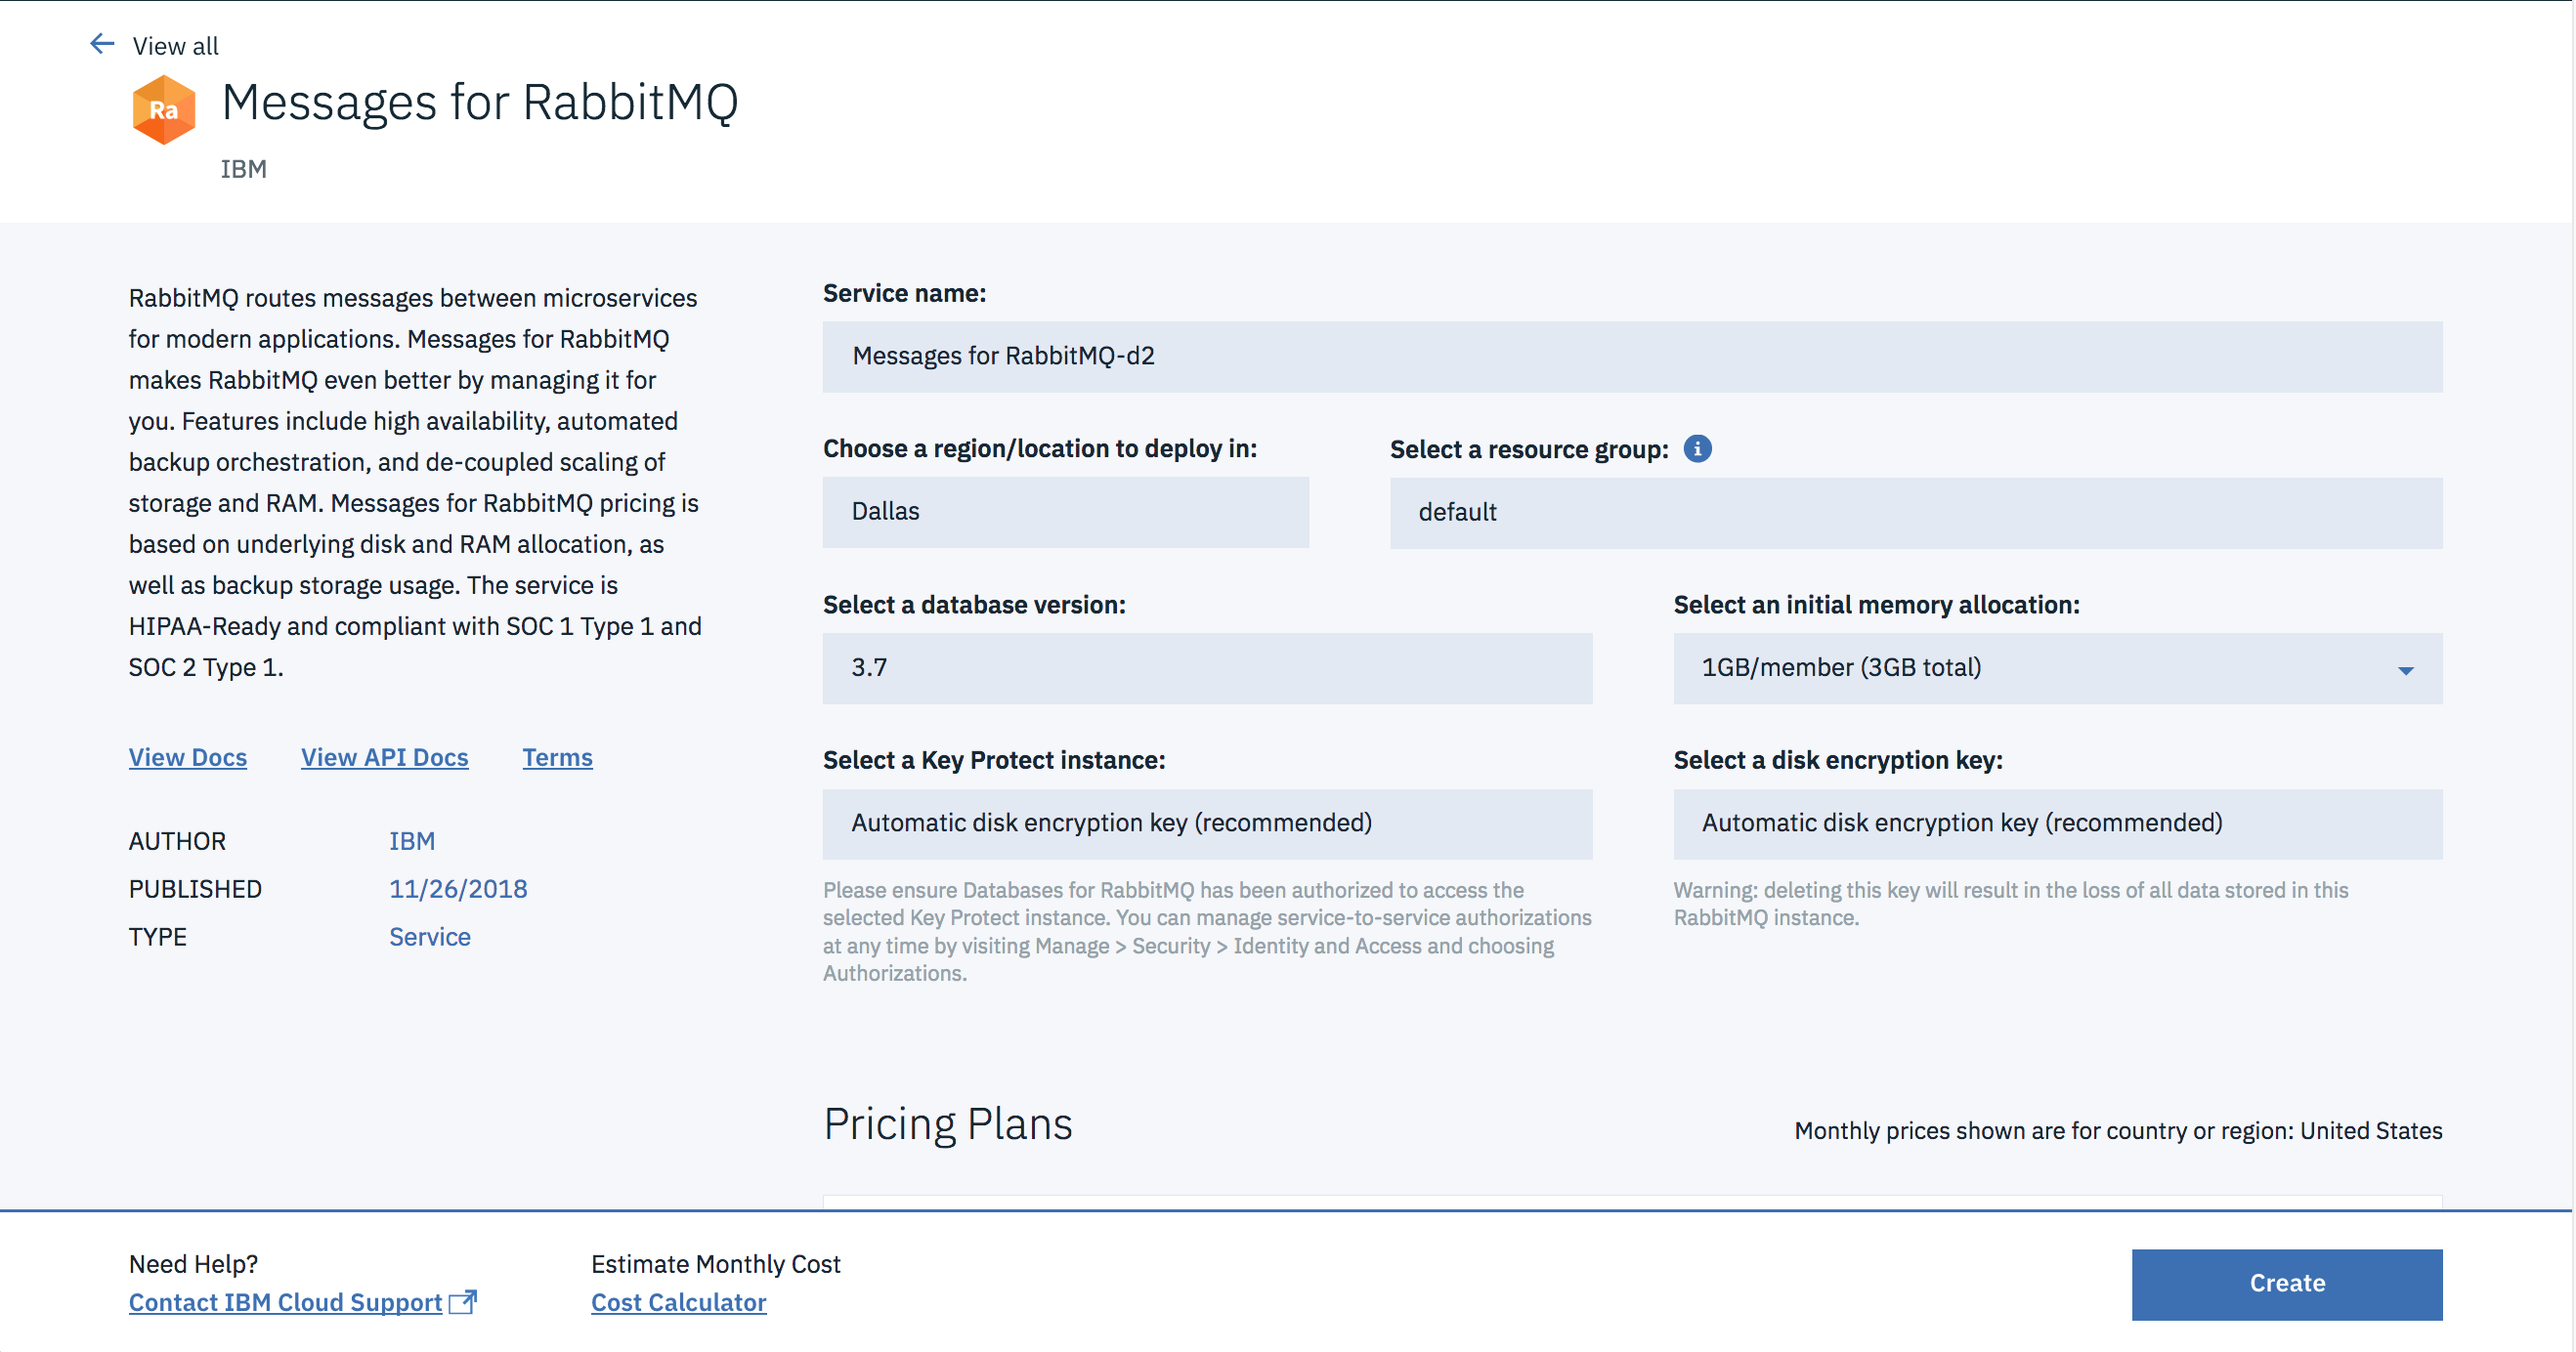
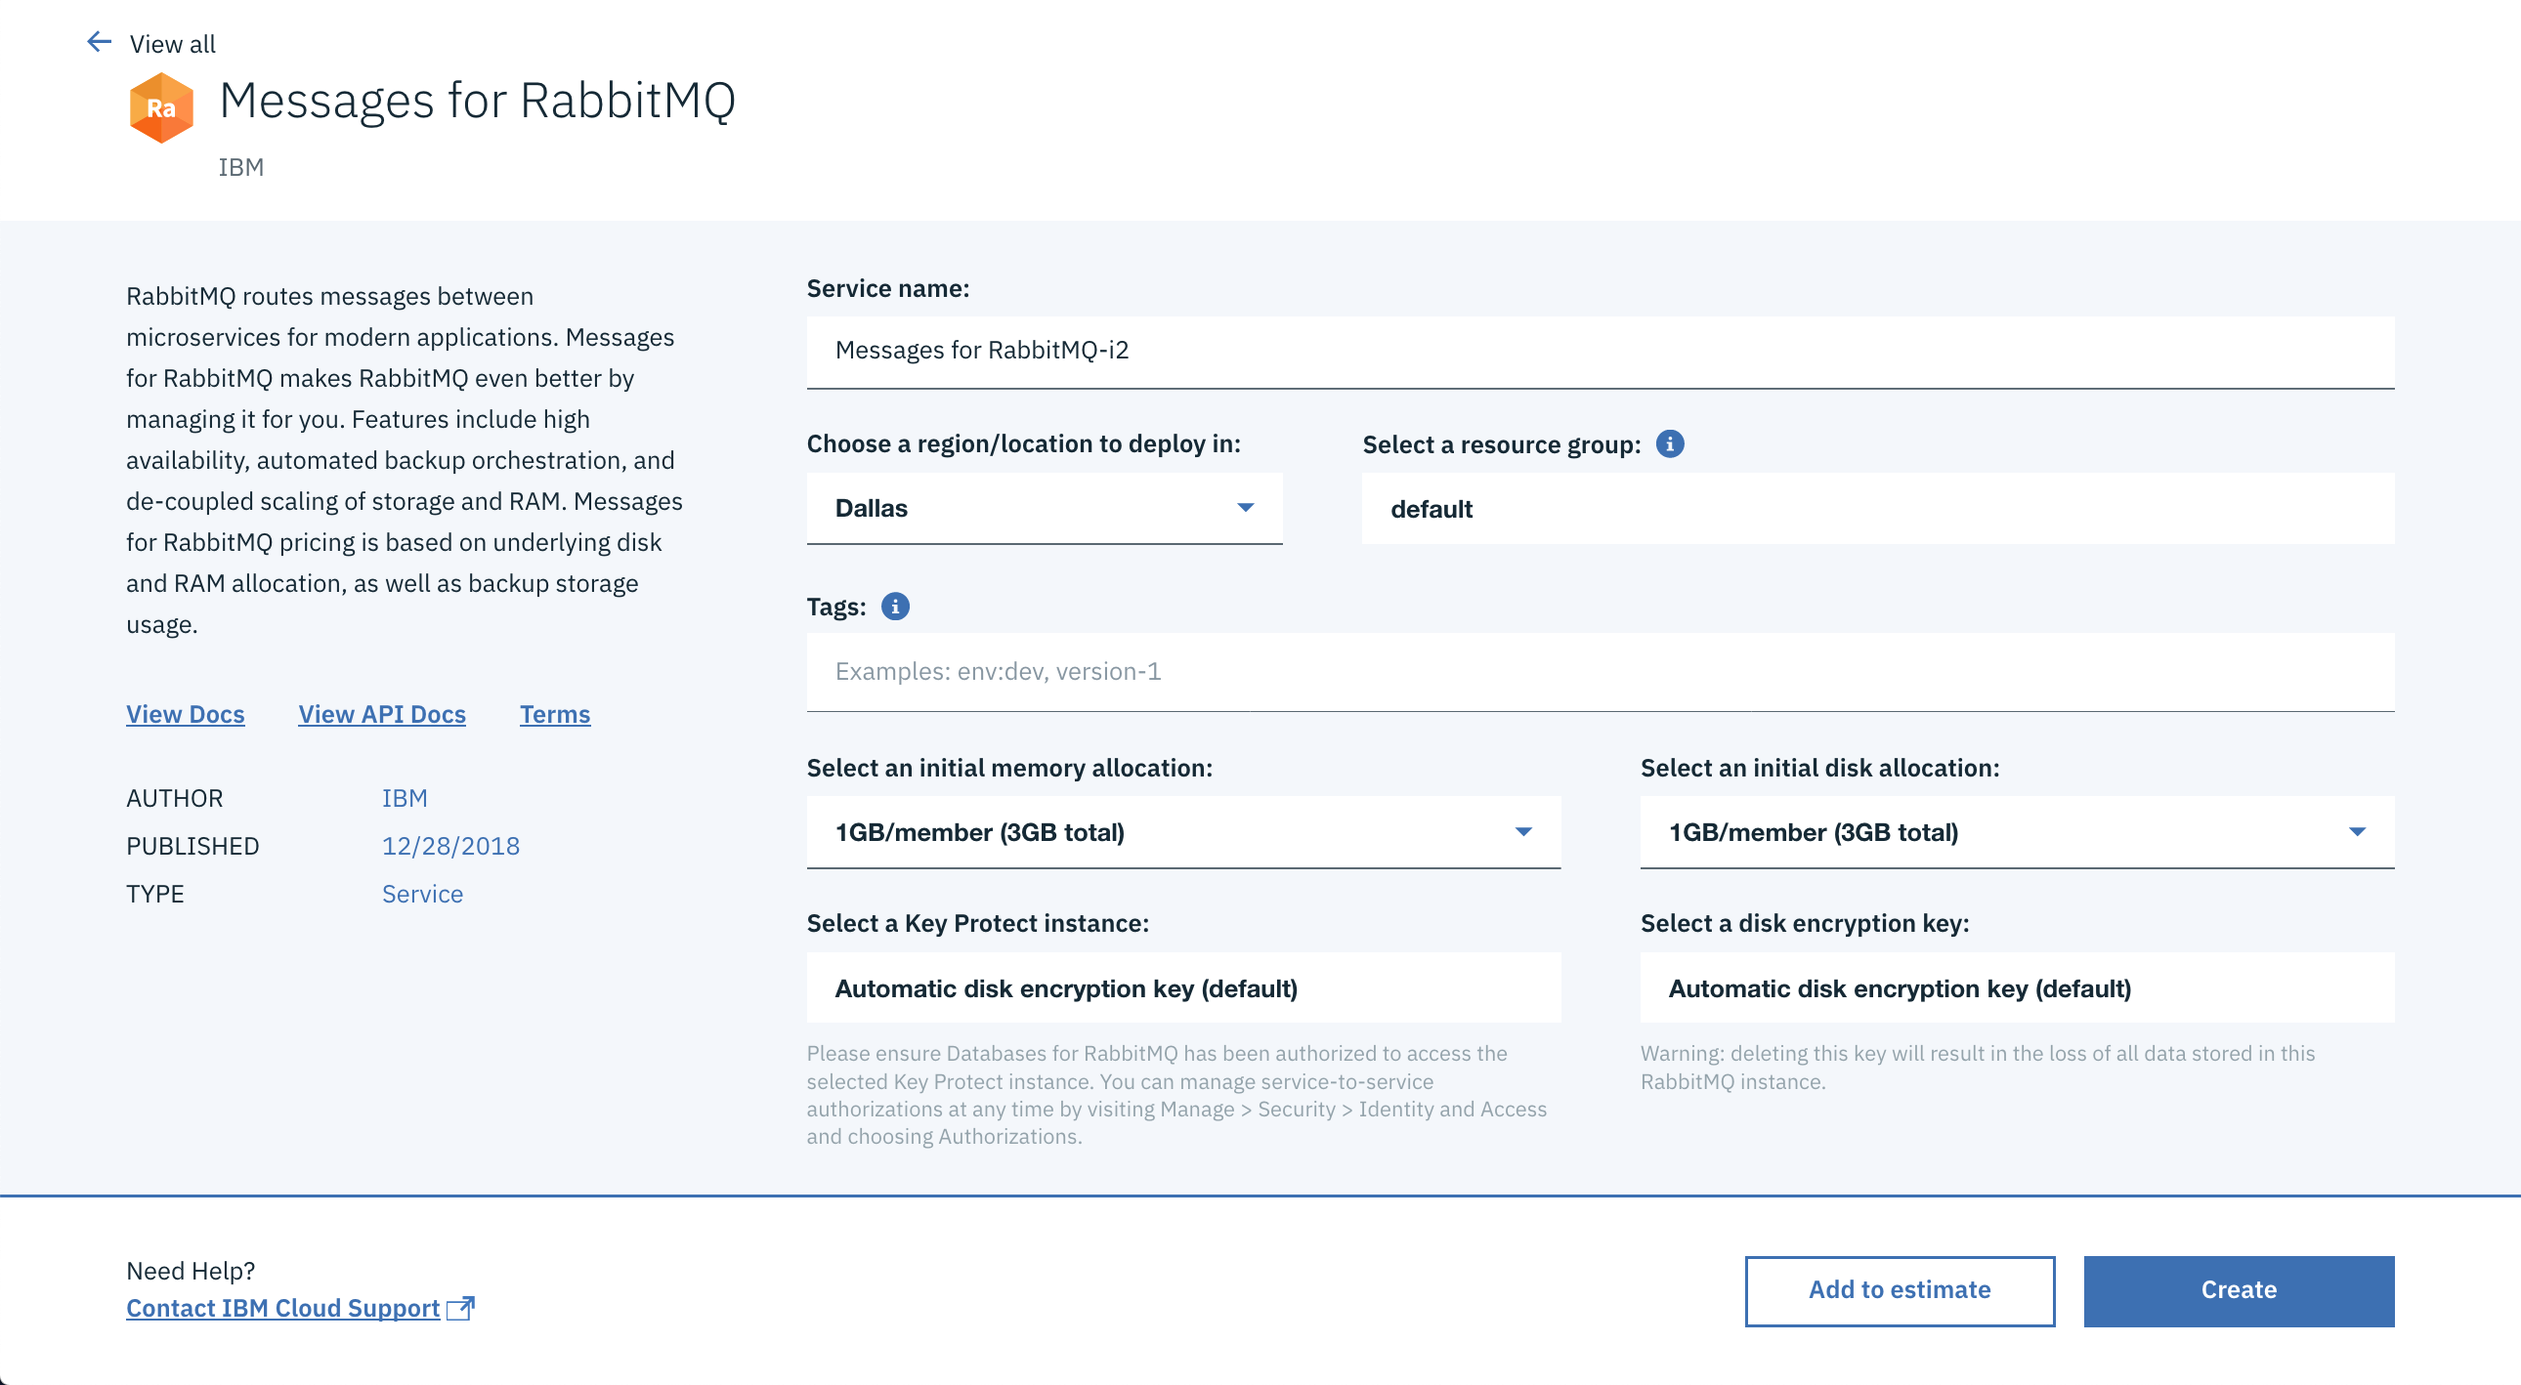
Feature provisioning terraform (#3)
* adding disk parameter

* adding api and terraform sections

* updating provisioning screenshot

diff --git a/howto-provisioning.md b/howto-provisioning.md
@@ -1,8 +1,8 @@
 ---
 
 copyright:
-  years: 2018
-lastupdated: "2018-10-26"
+  years: 2018, 2019
+lastupdated: "2019-01-03"
 ---
 
 {:shortdesc: .shortdesc}
@@ -15,7 +15,6 @@ lastupdated: "2018-10-26"
 # Provisioning {{site.data.keyword.messages-for-rabbitmq}}
 
 To create an {{site.data.keyword.messages-for-rabbitmq_full}} deployment, you need to create an {{site.data.keyword.cloud}} service instance. A service instance can represent different types of service. The service type is determined by the service ID and you need to specify the appropriate service ID when you create a new service instance. The service ID for {{site.data.keyword.messages-for-rabbitmq}} is `messages-for-rabbitmq`.
-
 
 ## Using the catalog
 
@@ -72,20 +71,74 @@ This command reports the current state of the service instance.
 
 ### Additional parameters
 
-The `service-instance-create` command supports a `-p` flag, which allows addition parameters to be passed to the provisioning process. The parameters are in JSON format. Some parameters values are CRNs (Cloud Resource Name), which uniquely identifies a resource in the cloud. All parameter names and values are passed as strings.
+The `service-instance-create` command supports a `-p` flag, which allows [additional parameters](#list-of-additional-parameters) to be passed to the provisioning process. The parameters are in JSON format. Some parameters values are CRNs (Cloud Resource Name), which uniquely identifies a resource in the cloud. All parameter names and values are passed as strings.
 
-* `backup_id`- A CRN of a backup resource to restore from. The backup must have been created by a database deployment with the same service ID. The backup is loaded after provisioning and the new deployment starts up that uses that data. A backup CRN is in the format `crn:v1:<...>:backup:<uuid>`. If omitted, the database is provisioned empty. This parameter cannot be set with a **version** parameter
-* `version` - The version of the database to be provisioned. If omitted, the database is created with the most recent major and minor version. This parameter cannot be set with a **backup_id** parameter.
-* `key_protect_key` - A CRN that references a Key Protect key, which is then used for disk encryption.
-* `members_memory_allocation_mb` -  Total amount of memory to be shared between the database members within the database. For example, if the value is "4096" then the two database members get 4 GB of RAM between them, giving 2 GB of RAM per member. If omitted, the default value is used; "2048".
-
-For example, if a database is being provisioned from a particular backup and the new database deployment needs two members, each with 2 GB, then the command looks like:
+For example, if a database is being provisioned from a particular backup and the new database deployment needs each database member to have with 2 GB, then the command looks like:
 
 ```
 ibmcloud resource service-instance-create example-rabbit messages-for-rabbitmq standard us-south \
 -p \ '{
   "backup_id": "crn:v1:bluemix:public:messages-for-rabbitmq:us-south:a/54e8ffe85dcedf470db5b5ee6ac4a8d8:1b8f53db-fc2d-4e24-8470-f82b15c71717:backup:06392e97-df90-46d8-98e8-cb67e9e0a8e6",
-  "members_memory_allocation_mb": "4096"
+  "members_memory_allocation_mb": "6144"
 }'
 ```
 
+## Provisioning through the Resource Controller API
+
+You can provision new deployments by using the Resource Controller API. However, in order to use the Resource Controller API, you need some additional preparation.
+
+1. [Obtain an IAM token from your API token](https://{DomainName}/apidocs/resource-controller#authentication).
+2. You need to know the ID of the resource group that you would like to deploy to. This information is available through the [{{site.data.keyword.cloud_notm}} CLI](https://{DomainName}/docs/cli/reference/ibmcloud/cli_resource_group.html#ibmcloud_resource_groups). You can find a list of resource groups with `ibmcloud resource groups` and the ID of a resource group with `ibmcloud resource group`. 
+3. You need to know the region that you would like to deploy to.
+
+Once you have all the information, the create request is a `POST` to the `https://resource-controller.bluemix.net/v2/resource_instances` endpoint.
+
+```
+curl -X POST \
+  https://resource-controller.bluemix.net/v2/resource_instances \
+  -H 'Authorization: Bearer <>' \
+  -H 'Content-Type: application/json' \
+    -d '{
+    "name": "my-instance",
+    "target": "bluemix-us-south",
+    "resource_group": "5g9f447903254bb58972a2f3f5a4c711",
+    "resource_plan_id": "messages-for-rabbitmq-standard"
+  }'
+```
+The parameters `name`, `target`, `resource_group`, and `resource_plan_id` are all required. If needed, you can send [additional parameters](#list-of-additional-parameters) in the request body.
+
+More information on the Resource Controller API is found in its [API Reference](https://{DomainName}/apidocs/resource-controller#create-provision-a-new-resource-instance).
+
+## Provisioning with Terraform
+
+If you use [Terraform](https://www.terraform.io/) to manage your infrastructure, the [{{site.data.keyword.cloud_notm}} provider for Terraform](https://ibm-cloud.github.io/tf-ibm-docs/) supports provisioning {{site.data.keyword.messages-for-rabbitmq}}. 
+
+Example configuration:
+
+```
+data "ibm_resource_group" "group" {
+  name = "default"
+}
+resource "ibm_resource_instance" "resource_instance" {
+  name              = "example-terraform-rabbitmq"
+  location          = "us-south"
+  service           = "messages-for-rabbitmq"
+  plan              = "standard"
+  resource_group_id = "${data.ibm_resource_group.group.id}"
+  parameters = {}
+}
+```
+
+The `name`, `location`, `service`, and `plan` fields are all required. The `resource_group_id` is not required, and it uses the default resource group if not supplied.
+
+You can send any needed [additional parameters](#list-of-additional-parameters) in the `parameters` field as a JSON object.
+
+More information about this specific {{site.data.keyword.cloud_notm}} provider configuration is available under the [Cloud Foundry Resources, `resource_instance`](https://ibm-cloud.github.io/tf-ibm-docs/v0.14.0/r/resource_instance.html) documentation.
+
+## List of Additional Parameters
+
+* `backup_id`- A CRN of a backup resource to restore from. The backup must have been created by a database deployment with the same service ID. The backup is loaded after provisioning and the new deployment starts up that uses that data. A backup CRN is in the format `crn:v1:<...>:backup:<uuid>`. If omitted, the database is provisioned empty. This parameter cannot be set with a **version** parameter
+* `version` - The version of the database to be provisioned. If omitted, the database is created with the most recent major and minor version. This parameter cannot be set with a **backup_id** parameter.
+* `key_protect_key` - A CRN that references a Key Protect key, which is then used for disk encryption.
+* `members_memory_allocation_mb` -  Total amount of memory to be shared between the database members within the database. For example, if the value is "6144" then the two database members get 6 GB of RAM between them, giving 2 GB of RAM per member. If omitted, the default value is used; "3072".
+* `members_disk_allocation_mb` - Total amount of disk to be shared between the database members within the database. For example, if the value is "30720" then the  database members get 30 GB of disk between them, giving 10 GB of disk per member. If omitted, the default value is used; "3072".
